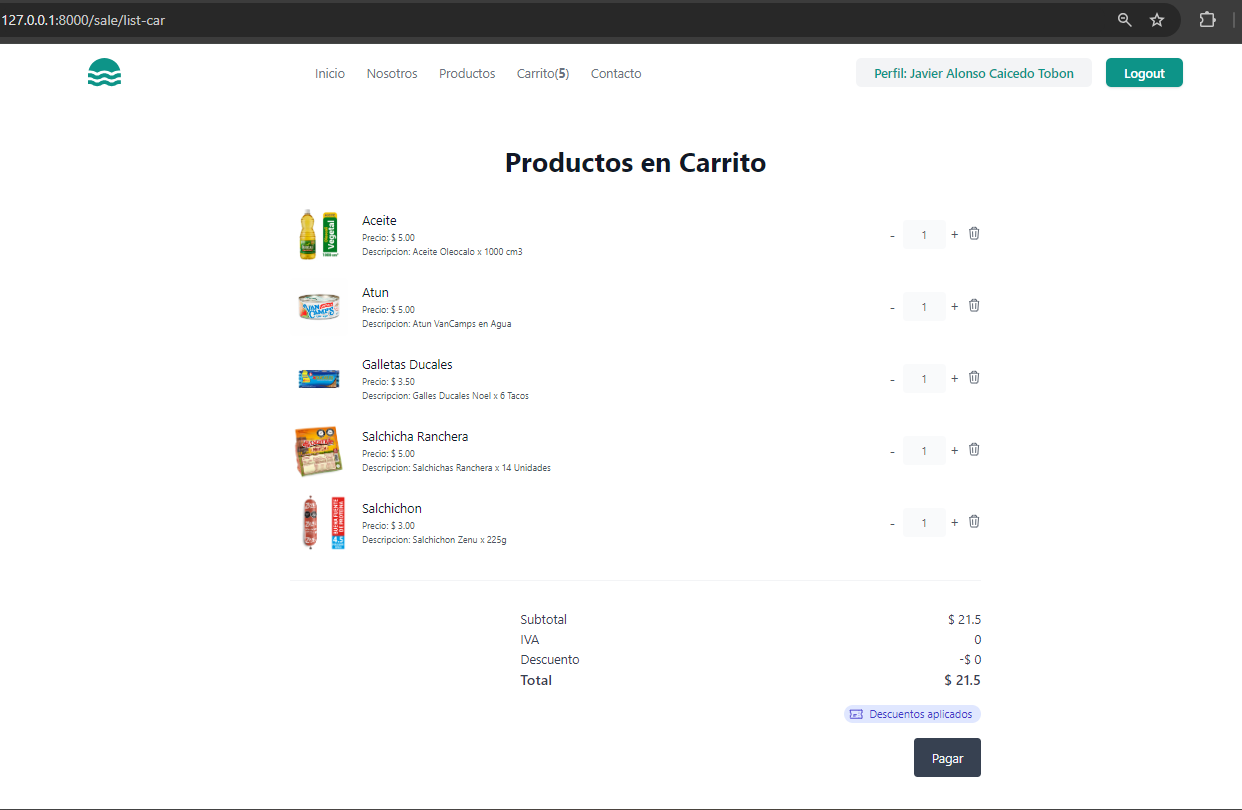
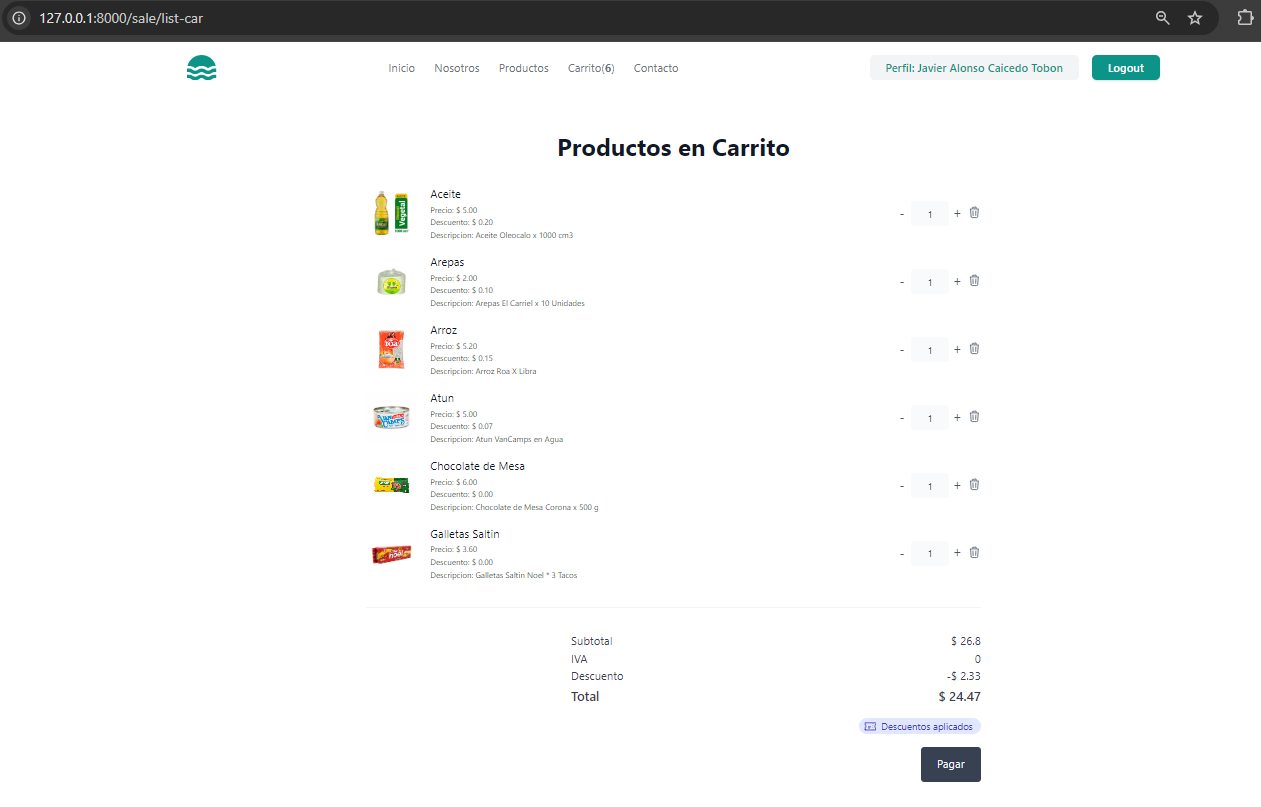
actualizacion del readme

diff --git a/onlinestore/templates/products/detail_product.html b/onlinestore/templates/products/detail_product.html
@@ -1,0 +1,115 @@
+{% extends 'base.html' %}
+
+
+{% block content %}
+{% include 'includes/header.html' %}
+
+<div class="mx-auto w-full max-w-96 px-4 py-8 sm:px-6 sm:py-12 lg:px-8 mb-20 mt-5">
+    <a href="#" class="block rounded-lg p-4 shadow-sm shadow-indigo-100 ">
+        <img
+            alt=""
+            src="{{ producto.image.url }}"
+            class="h-full w-full rounded-md object-cover"
+            />
+        
+            <div class="mt-2">
+            <dl>
+                <div>
+                    <dt class="sr-only">Description</dt>
+            
+                    <dd class="font-medium">{{producto.description}}</dd>
+                    </div>
+                
+                <div>
+                <dt class="sr-only">Price</dt>
+        
+                <dd class="text-sm text-gray-500">Precio: $ {{producto.sale_price}}</dd>
+                </div>
+
+                <dd class="text-sm text-gray-500">Marca: {{producto.marca.name}}</dd>
+                </div>
+        
+                
+                
+            </dl>
+        
+            <div class="mt-6 flex items-center gap-8 text-xs">
+                <div class="sm:inline-flex sm:shrink-0 sm:items-center sm:gap-2">
+                <svg
+                    class="size-4 text-indigo-700"
+                    xmlns="http://www.w3.org/2000/svg"
+                    fill="none"
+                    viewBox="0 0 24 24"
+                    stroke="currentColor"
+                >
+                    <path
+                    stroke-linecap="round"
+                    stroke-linejoin="round"
+                    stroke-width="2"
+                    d="M8 14v3m4-3v3m4-3v3M3 21h18M3 10h18M3 7l9-4 9 4M4 10h16v11H4V10z"
+                    />
+                </svg>
+        
+                <div class="mt-1.5 sm:mt-0">
+                    <p class="text-gray-500">Cant. Disp.</p>
+        
+                    <p class="font-medium">{{producto.stock}}</p>
+                </div>
+                </div>
+
+                <div class="sm:inline-flex sm:shrink-0 sm:items-center sm:gap-2">
+                    <svg
+                        class="size-4 text-indigo-700"
+                        xmlns="http://www.w3.org/2000/svg"
+                        fill="none"
+                        viewBox="0 0 24 24"
+                        stroke="currentColor"
+                    >
+                        <path
+                        stroke-linecap="round"
+                        stroke-linejoin="round"
+                        stroke-width="2"
+                        d="M8 14v3m4-3v3m4-3v3M3 21h18M3 10h18M3 7l9-4 9 4M4 10h16v11H4V10z"
+                        />
+                    </svg>
+            
+                    <div class="mt-1.5 sm:mt-0">
+                        <p class="text-gray-500"># Ventas</p>
+            
+                        <p class="font-medium">{{producto.num_sale}}</p>
+                    </div>
+                    </div>                
+                    
+                
+                    <div class="sm:inline-flex sm:shrink-0 sm:items-center sm:gap-2">
+                        <svg
+                            class="size-4 text-indigo-700"
+                            xmlns="http://www.w3.org/2000/svg"
+                            fill="none"
+                            viewBox="0 0 24 24"
+                            stroke="currentColor"
+                        >
+                            <path
+                            stroke-linecap="round"
+                            stroke-linejoin="round"
+                            stroke-width="2"
+                            d="M8 14v3m4-3v3m4-3v3M3 21h18M3 10h18M3 7l9-4 9 4M4 10h16v11H4V10z"
+                            />
+                        </svg>
+                
+                        <div class="mt-1.5 sm:mt-0">
+                            <p class="text-gray-500">Cod Barras</p>
+                
+                            <p class="font-medium">{{producto.barcode}}</p>
+                        </div>
+                        </div>
+                        
+        
+                
+            </div>
+            </div>
+    </a>
+</div>
+
+{% include 'includes/footer.html' %}
+{% endblock content %}

diff --git a/onlinestore/templates/products/products.html b/onlinestore/templates/products/products.html
@@ -61,7 +61,7 @@
             <ul class="mt-8 grid gap-4 sm:grid-cols-2 lg:grid-cols-4">
                 {% for p in all_products%}
                 <li>
-                    <a href="#-/" class="group relative block overflow-hidden">
+                    <a href="{% url 'products_app:detail_product' p.id %}" class="group relative block overflow-hidden">
                         <button
                         class="absolute end-4 top-4 z-10 rounded-full bg-white p-1.5 text-gray-900 transition hover:text-gray-900/75"
                         >
@@ -93,7 +93,13 @@
                         <!-- con este campo le puedo agregar la etiqueta nuevo
                             <span class="whitespace-nowrap bg-yellow-400 px-3 py-1.5 text-xs font-medium"> New </span>
                         -->
-                    
+                        {% if p.discount > 0 %}
+                        <span class="whitespace-nowrap bg-yellow-400 px-1 py-1 text-xs font-xs"> Descuento {{p.get_descuento}} %</span>
+                        {% else %}
+                        <span class="whitespace-nowrap bg-white-400 px-3 py-1.5 text-xs font-medium"> </span>
+
+                        {% endif %}
+
                         <h3 class="mt-4 text-lg font-medium text-gray-900">{{p.name}}</h3>
                     
                         <p class="mt-1.5 text-sm text-gray-700">${{p.sale_price}}</p>

diff --git a/onlinestore/templates/sale/list-carshop.html b/onlinestore/templates/sale/list-carshop.html
@@ -31,6 +31,11 @@
                         <dt class="inline">Precio:</dt>
                         <dd class="inline">$ {{p.product.sale_price}}</dd>
                     </div>
+
+                    <div>
+                        <dt class="inline">Descuento:</dt>
+                        <dd class="inline">$ {{p.product.discount}}</dd>
+                    </div>
     
                     <div>
                         <dt class="inline">Descripcion:</dt>
@@ -100,7 +105,7 @@
                 <dl class="space-y-0.5 text-sm text-gray-700">
                     <div class="flex justify-between">
                     <dt>Subtotal</dt>
-                    <dd>$ {{total}}</dd>
+                    <dd>$ {{sub_total}}</dd>
                     </div>
     
                     <div class="flex justify-between">
@@ -110,7 +115,7 @@
     
                     <div class="flex justify-between">
                     <dt>Descuento</dt>
-                    <dd>-$ 0</dd>
+                    <dd>-$ {{descuento}}</dd>
                     </div>
     
                     <div class="flex justify-between !text-base font-medium">

diff --git a/onlinestore/applications/sale/functions.py b/onlinestore/applications/sale/functions.py
@@ -16,6 +16,7 @@ def make_purchase(self, **dates):
 
         monto = 0
         cantidad = 0
+        descuento = 0
 
         lista_productos = []
         productos_vendidos = []
@@ -26,10 +27,12 @@ def make_purchase(self, **dates):
                 product = producto.product,
                 count = producto.count,
                 purchase_price = producto.product.purchase_price,
-                sale_price = producto.product.sale_price
+                sale_price = producto.product.sale_price,
+                discount = producto.product.discount * producto.product.sale_price
             )
             lista_productos.append(detalle)
-
+            #
+            descuento += producto.product.discount * producto.product.sale_price
             #
             vendidos = producto.product
             vendidos.stock -= producto.count
@@ -51,6 +54,7 @@ def make_purchase(self, **dates):
 
         venta.amount = monto
         venta.count = cantidad
+        venta.discount = descuento
         venta.save()        
 
         CarShop.objects.filter(user=dates['user']).delete()

diff --git a/onlinestore/applications/sale/models.py b/onlinestore/applications/sale/models.py
@@ -14,6 +14,7 @@ class Sale(TimeStampedModel):
     date_sale = models.DateField('Fecha de Fecha')
     amount = models.DecimalField('Monto de la compra', max_digits=10, decimal_places=2)
     count = models.PositiveIntegerField('Cantidad de productos')
+    discount = models.DecimalField('Descuento', max_digits=4, decimal_places=2, default=0)
     user = models.ForeignKey(settings.AUTH_USER_MODEL, related_name='sale_user', on_delete=models.CASCADE)
 
     class Meta:
@@ -28,6 +29,7 @@ class Sale(TimeStampedModel):
 class SaleDetail(TimeStampedModel):
     sale = models.ForeignKey(Sale, on_delete=models.CASCADE)
     product = models.ForeignKey(Product, on_delete=models.CASCADE)
+    discount = models.DecimalField('Descuento Producto', max_digits=3, decimal_places=2, default=0)
     count = models.PositiveIntegerField('Cantidad')
     purchase_price = models.DecimalField('Precio Compra', max_digits=5, decimal_places=2)
     sale_price = models.DecimalField('Precio Venta', max_digits=5, decimal_places=2)

diff --git a/onlinestore/applications/products/views.py b/onlinestore/applications/products/views.py
@@ -1,6 +1,6 @@
 from django.shortcuts import render
 #
-from django.views.generic import TemplateView
+from django.views.generic import TemplateView, DetailView
 #
 from .models import Product
 # Create your views here.
@@ -18,5 +18,18 @@ class ProductsView(TemplateView):
         if producto:
             context["all_products"] = Product.objects.filter(name__icontains=producto)
         else:
-            context["all_products"] = Product.objects.all()
+            context["all_products"] = Product.objects.all().order_by('name')
         return context
+
+
+class DetailProductView(DetailView):
+    template_name = 'products/detail_product.html'
+    model = Product
+
+
+    def get_context_data(self, **kwargs):
+        context = super().get_context_data(**kwargs)
+        dato = self.kwargs['pk']
+        context["producto"] = Product.objects.get(id=dato)
+        return context
+    

diff --git a/onlinestore/applications/sale/migrations/0004_sale_discount_saledetail_discount.py b/onlinestore/applications/sale/migrations/0004_sale_discount_saledetail_discount.py
@@ -1,0 +1,23 @@
+# Generated by Django 5.1 on 2024-09-07 16:31
+
+from django.db import migrations, models
+
+
+class Migration(migrations.Migration):
+
+    dependencies = [
+        ('sale', '0003_alter_carshop_barcode'),
+    ]
+
+    operations = [
+        migrations.AddField(
+            model_name='sale',
+            name='discount',
+            field=models.DecimalField(decimal_places=2, default=0, max_digits=4, verbose_name='Descuento'),
+        ),
+        migrations.AddField(
+            model_name='saledetail',
+            name='discount',
+            field=models.DecimalField(decimal_places=2, default=0, max_digits=3, verbose_name='Descuento Producto'),
+        ),
+    ]

diff --git a/onlinestore/applications/products/models.py b/onlinestore/applications/products/models.py
@@ -43,6 +43,8 @@ class Product(TimeStampedModel):
     image = models.ImageField('Imagen', upload_to='products', null=True, blank=True)
     stock = models.IntegerField('Stock', default=0)
     num_sale = models.PositiveIntegerField('Veces Vendido', default=0)
+    discount = models.DecimalField('Descuento', max_digits=3, decimal_places=2, default=0)
+
 
     class Meta:
         verbose_name = 'Producto'
@@ -50,3 +52,6 @@ class Product(TimeStampedModel):
 
     def __str__(self):
         return self.name
+    
+    def get_descuento(self):
+        return round(self.discount * 100)

diff --git a/onlinestore/applications/sale/managers.py b/onlinestore/applications/sale/managers.py
@@ -17,3 +17,18 @@ class CarShopManager(models.Manager):
             return total_pagar['total']
         else:
             return 0
+    
+
+    def descuento(self, user):
+        total_descuento = self.filter(
+            user=user
+        ).aggregate(
+            descuento = Sum(F('product__discount') * F('product__sale_price'),
+                    output_field=FloatField()
+                    )                
+                )
+        
+        if total_descuento['descuento']:
+            return total_descuento['descuento']
+        else:
+            return 0

diff --git a/onlinestore/applications/sale/views.py b/onlinestore/applications/sale/views.py
@@ -59,7 +59,9 @@ class ListProductCarShop(ListView):
 
     def get_context_data(self, **kwargs):
         context = super(ListProductCarShop, self).get_context_data(**kwargs)
-        context['total'] = CarShop.objects.total(self.request.user)
+        context['sub_total'] = CarShop.objects.total(self.request.user)
+        context['descuento'] = CarShop.objects.descuento(self.request.user)
+        context['total'] = round(context['sub_total'] - context['descuento'], 2)
         return context
     
 

diff --git a/onlinestore/applications/products/migrations/0003_alter_product_discount.py b/onlinestore/applications/products/migrations/0003_alter_product_discount.py
@@ -1,0 +1,18 @@
+# Generated by Django 5.1 on 2024-09-07 15:24
+
+from django.db import migrations, models
+
+
+class Migration(migrations.Migration):
+
+    dependencies = [
+        ('products', '0002_product_discount'),
+    ]
+
+    operations = [
+        migrations.AlterField(
+            model_name='product',
+            name='discount',
+            field=models.DecimalField(decimal_places=2, default=0, max_digits=3, verbose_name='Descuento'),
+        ),
+    ]

diff --git a/onlinestore/applications/products/migrations/0002_product_discount.py b/onlinestore/applications/products/migrations/0002_product_discount.py
@@ -1,0 +1,18 @@
+# Generated by Django 5.1 on 2024-09-07 14:10
+
+from django.db import migrations, models
+
+
+class Migration(migrations.Migration):
+
+    dependencies = [
+        ('products', '0001_initial'),
+    ]
+
+    operations = [
+        migrations.AddField(
+            model_name='product',
+            name='discount',
+            field=models.PositiveIntegerField(default=0, verbose_name='Descuento'),
+        ),
+    ]
